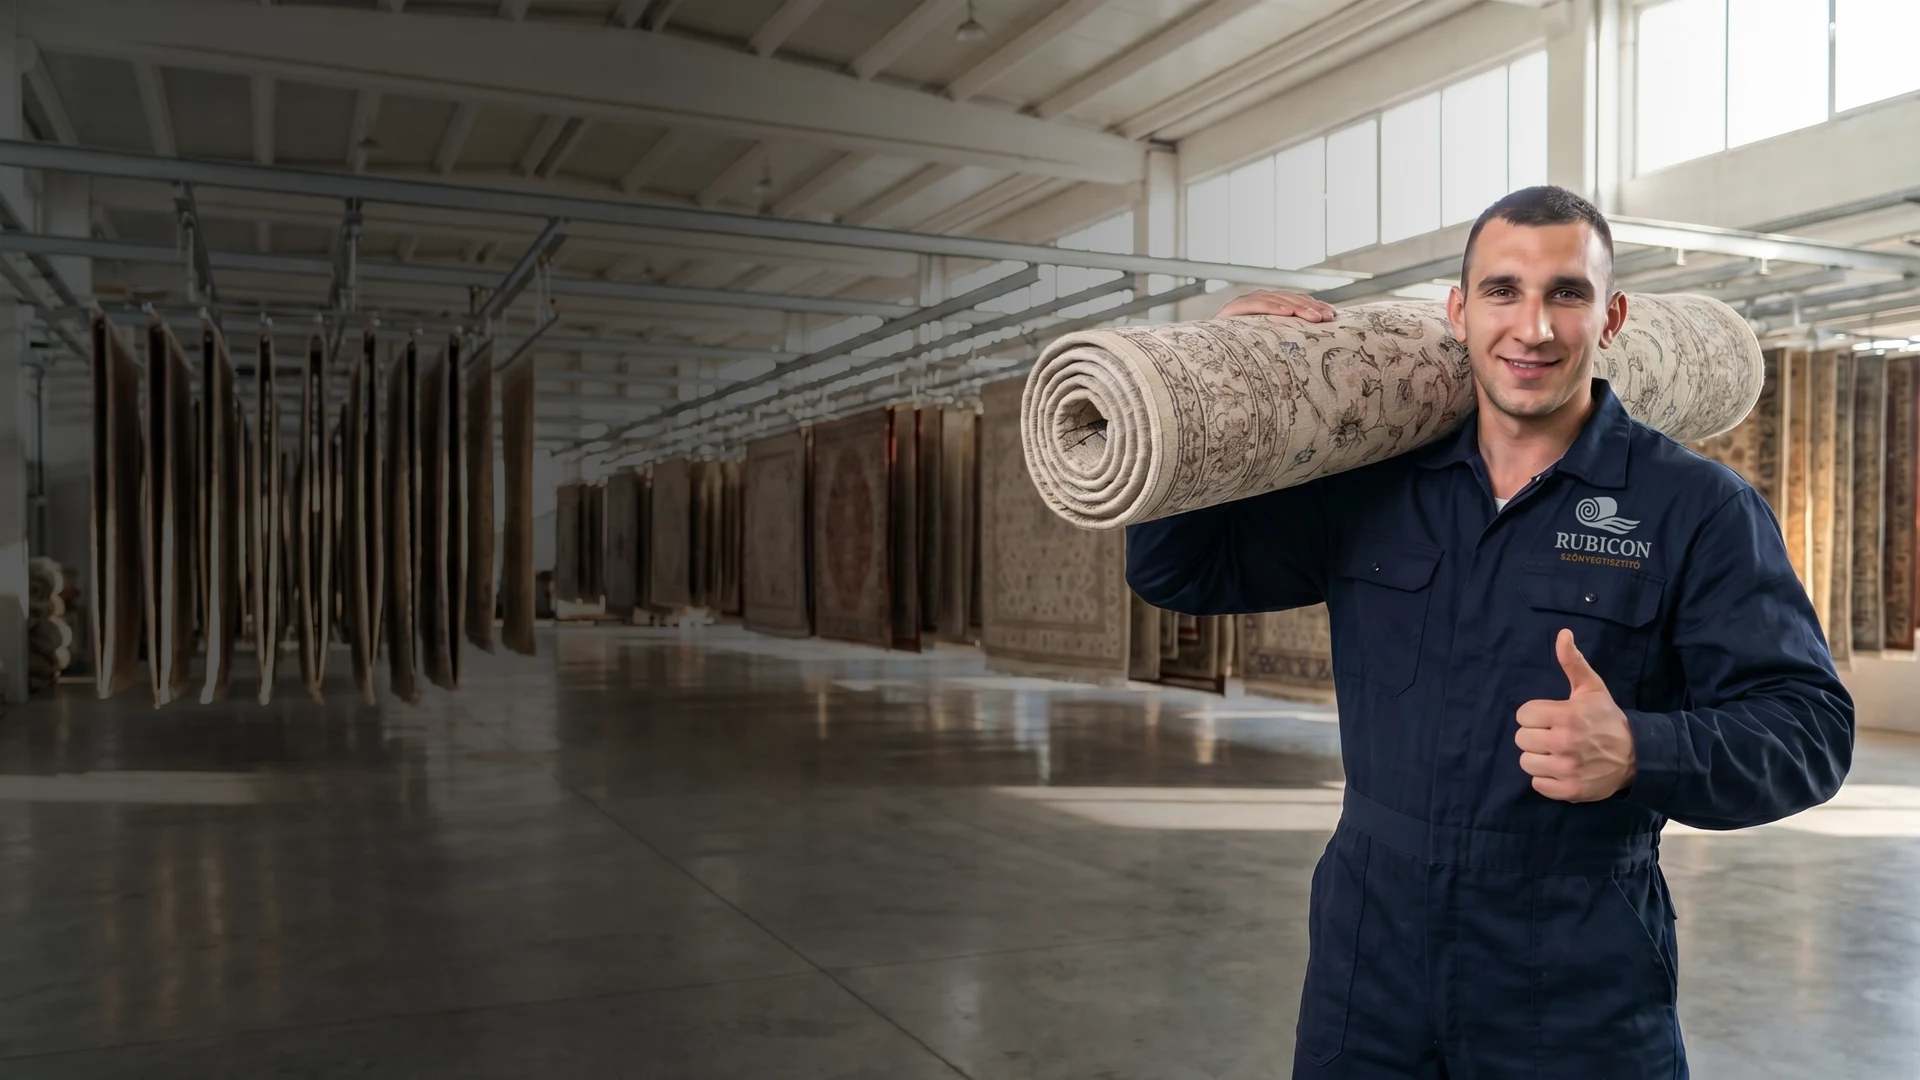
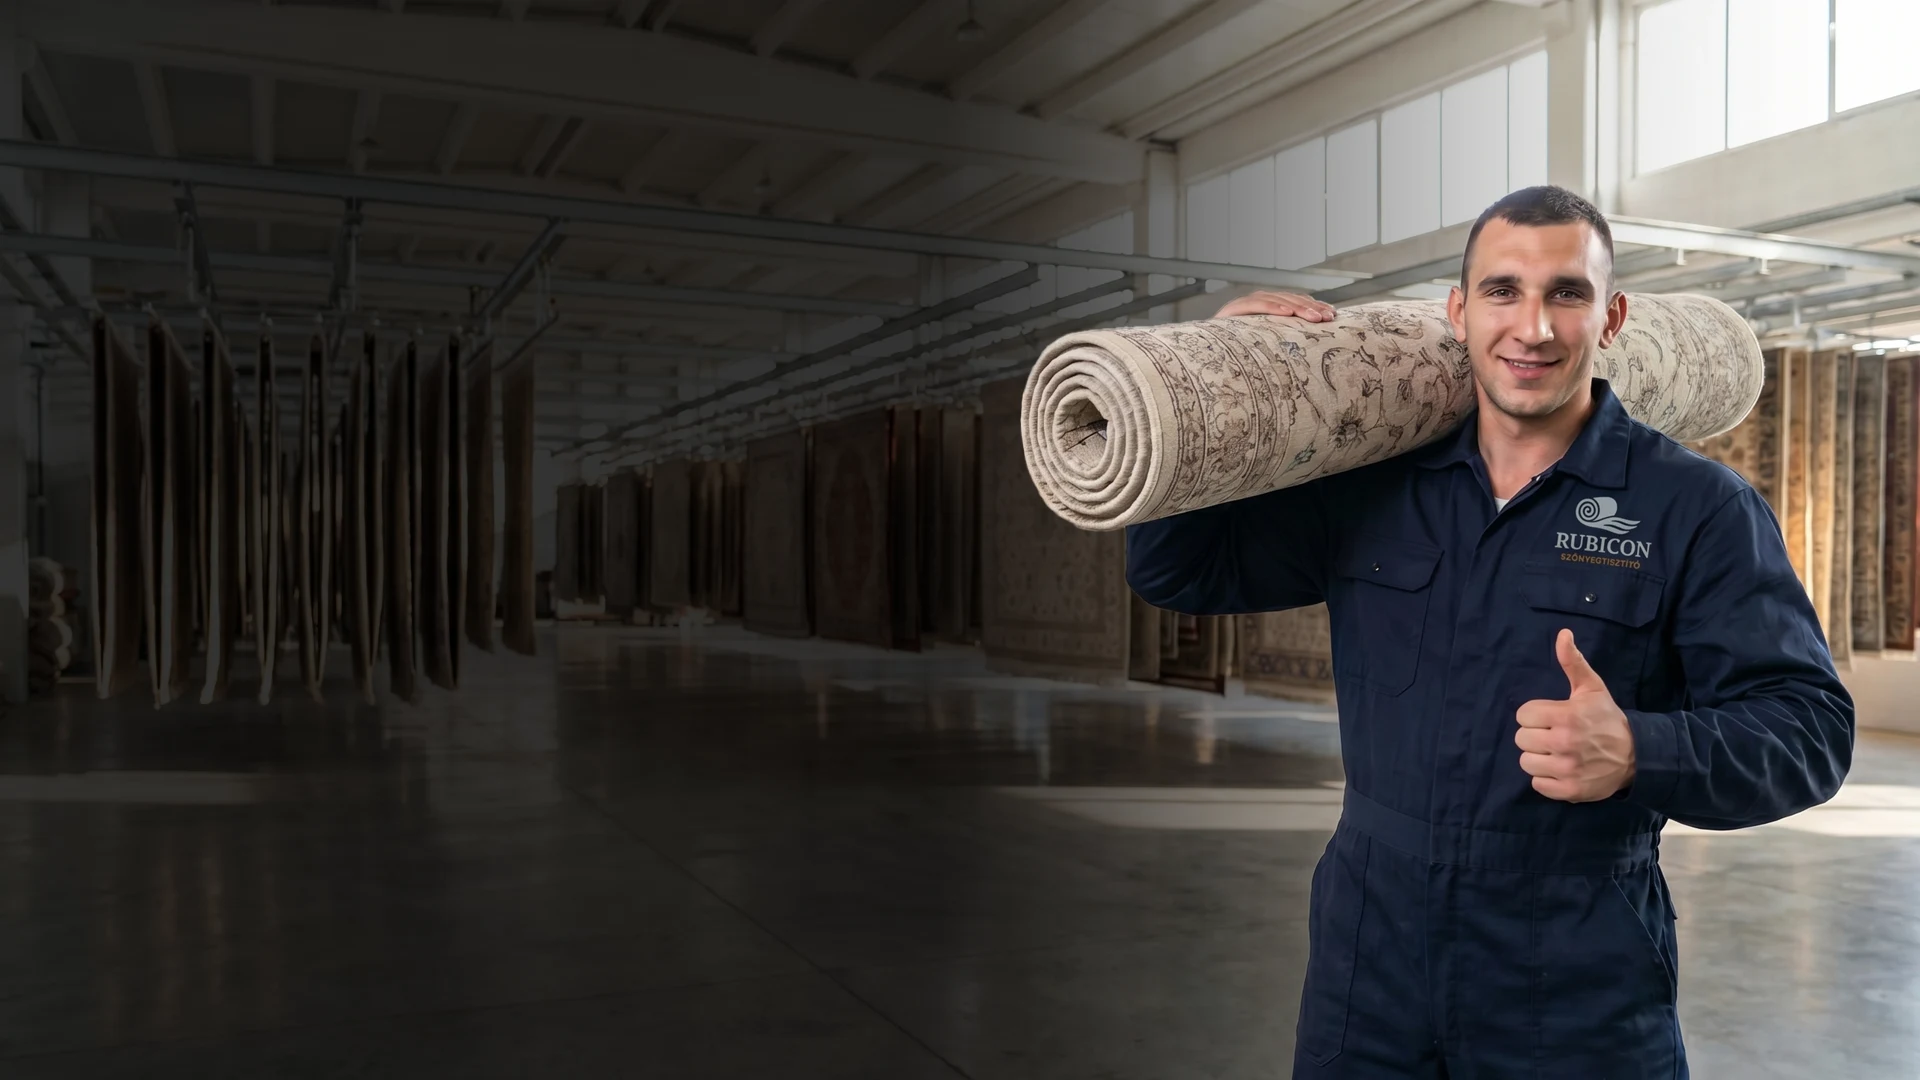
update

diff --git a/src/app/portal/(admin)/page.tsx b/src/app/portal/(admin)/page.tsx
@@ -1,15 +1,8 @@
-import { getJobs, advanceJobStatus } from '@/lib/actions';
-import { MapPin, ChevronRight, CheckCircle2 } from 'lucide-react';
+import { getJobs } from '@/lib/actions';
+import { MapPin } from 'lucide-react';
+import JobStatusEditor from '@/components/admin/JobStatusEditor';
 
 export const dynamic = 'force-dynamic';
-
-const statusColors: Record<string, string> = {
-  'Felvételre vár': 'bg-red-100 text-red-800 border-red-200',
-  'Beérkezett': 'bg-orange-100 text-orange-800 border-orange-200',
-  'Tisztítás alatt': 'bg-blue-100 text-blue-800 border-blue-200',
-  'Elkészült': 'bg-green-100 text-green-800 border-green-200',
-  'Kiszállítva': 'bg-gray-100 text-gray-800 border-gray-200',
-};
 
 export default async function DashboardPage() {
   const jobs = await getJobs();
@@ -31,7 +24,7 @@ export default async function DashboardPage() {
                 <th className="p-4">ID</th>
                 <th className="p-4">Név</th>
                 <th className="p-4">Cím</th>
-                <th className="p-4">Státusz</th>
+                <th className="p-4 w-56">Státusz</th>
                 <th className="p-4 text-right">Végösszeg</th>
                 <th className="p-4 text-center">Műveletek</th>
               </tr>
@@ -43,7 +36,7 @@ export default async function DashboardPage() {
                 </tr>
               )}
               {jobs.map((job: any) => (
-                <tr key={job.id} className="hover:bg-gray-50 transition-colors">
+                <tr key={job.id} className="hover:bg-gray-50 transition-colors relative">
                   <td className="p-4 font-mono text-sm text-gray-500">#{job.id}</td>
                   <td className="p-4 font-medium text-[#181A2C]">{job.name}</td>
                   <td className="p-4">
@@ -54,10 +47,8 @@ export default async function DashboardPage() {
                       </a>
                     )}
                   </td>
-                  <td className="p-4">
-                    <span className={`px-3 py-1 rounded-full text-xs font-medium border ${statusColors[job.status] || 'bg-gray-100 text-gray-800'}`}>
-                      {job.status}
-                    </span>
+                  <td className="p-4 relative">
+                    <JobStatusEditor jobId={job.id} currentStatus={job.status} />
                   </td>
                   <td className="p-4 text-right font-bold text-[#181A2C]">
                     {job.total.toLocaleString('hu-HU')} Ft
@@ -70,28 +61,6 @@ export default async function DashboardPage() {
                     >
                       Szerkesztés
                     </a>
-                    {job.status !== 'Kiszállítva' ? (
-                      <form action={
-                        async () => {
-                          'use server';
-                          await advanceJobStatus(job.id);
-                        }
-                      }>
-                        <button 
-                          type="submit" 
-                          title="Következő lépés"
-                          className="flex items-center gap-1 bg-[#1D63B7] hover:bg-[#3AC2FE] text-white px-3 py-1.5 rounded-lg text-sm font-medium transition-colors shadow-sm"
-                        >
-                          Léptetés
-                          <ChevronRight size={16} />
-                        </button>
-                      </form>
-                    ) : (
-                      <div className="flex items-center gap-1 text-green-600 font-medium text-sm px-2 py-1.5">
-                        <CheckCircle2 size={16} />
-                        Kész
-                      </div>
-                    )}
                   </td>
                 </tr>
               ))}

diff --git a/src/app/page.tsx b/src/app/page.tsx
@@ -98,24 +98,31 @@ export default async function HomePage() {
 
       <main className="bg-[#F8F9FA]">
         {/* 1. HERO Section */}
-        <section className="relative pt-20 pb-32 overflow-hidden flex items-center min-h-[90vh]">
-          <div className="absolute inset-0 z-0">
-            <Image src={heroBgImage} alt="Szőnyegtisztítás" fill className="object-cover" priority />
+        <section className="relative overflow-hidden bg-[#181A2C]">
+          {/* Background Image Container - Half height on mobile, full on desktop */}
+          <div className="absolute top-0 left-0 w-full h-[60vh] md:h-full z-0">
+            <Image src={heroBgImage} alt="Szőnyegtisztítás" fill className="object-cover object-[80%_top] md:object-right" priority quality={100} unoptimized />
+            {/* Desktop Gradient: dark on left, transparent on right so Zoli is visible */}
+            <div className="hidden md:block absolute inset-0 bg-gradient-to-r from-[#181A2C]/90 via-[#181A2C]/50 to-transparent" />
+            {/* Mobile Gradient: left to right for h1/h2 readability */}
+            <div className="block md:hidden absolute inset-0 bg-gradient-to-r from-[#181A2C]/90 via-[#181A2C]/40 to-transparent" />
+            {/* Mobile Gradient: dark at the bottom blending into the solid background below */}
+            <div className="block md:hidden absolute inset-0 bg-gradient-to-t from-[#181A2C] via-transparent to-transparent" />
           </div>
 
-          <div className="max-w-7xl mx-auto px-6 relative z-10 w-full">
+          <div className="max-w-7xl mx-auto px-6 relative z-10 w-full pt-[35vh] pb-24 md:pt-32 md:pb-32 md:min-h-[90vh] flex flex-col justify-center">
             <div className="max-w-3xl">
-              <span className="inline-block py-1 px-3 rounded-full bg-[#3AC2FE]/20 text-[#3AC2FE] font-bold text-sm tracking-widest uppercase mb-6 border border-[#3AC2FE]/30">{heroBadge}</span>
-              <h1 className="text-5xl md:text-6xl font-extrabold text-white leading-tight mb-4">
+              <span className="inline-block py-1 px-3 rounded-full bg-[#3AC2FE]/20 text-[#3AC2FE] font-bold text-sm tracking-widest uppercase mb-4 md:mb-6 border border-[#3AC2FE]/30">{heroBadge}</span>
+              <h1 className="text-4xl sm:text-5xl md:text-6xl font-extrabold text-white leading-tight mb-4">
                 {heroTitle}
               </h1>
-              <h2 className="text-3xl md:text-4xl font-bold text-white mb-6">
+              <h2 className="text-2xl sm:text-3xl md:text-4xl font-bold text-white mb-8 md:mb-6">
                 {heroSubtitle}
               </h2>
-              <p className="text-xl md:text-2xl text-gray-300 font-light mb-10 leading-relaxed">
+              <p className="text-lg sm:text-xl md:text-2xl text-gray-300 font-light mb-10 leading-relaxed">
                 {heroParagraph}
               </p>              
-              <a href="#kapcsolat" className="inline-block bg-[#3AC2FE] hover:bg-white hover:text-[#1D63B7] text-white font-bold text-xl px-10 py-5 rounded-full transition-all shadow-[0_0_40px_rgba(58,194,254,0.4)] hover:shadow-xl mt-8">
+              <a href="#kapcsolat" className="inline-block bg-[#3AC2FE] hover:bg-white hover:text-[#1D63B7] text-white font-bold text-xl px-10 py-5 rounded-full transition-all shadow-[0_0_40px_rgba(58,194,254,0.4)] hover:shadow-xl md:mt-8">
                 {heroCta}
               </a>
             </div>

diff --git a/src/components/admin/JobStatusEditor.tsx b/src/components/admin/JobStatusEditor.tsx
@@ -1,0 +1,86 @@
+'use client';
+
+import { useState } from 'react';
+import { Pencil, Check, X } from 'lucide-react';
+import { updateJobStatus } from '@/lib/actions';
+
+const statuses = [
+  'Felvételre vár',
+  'Beérkezett',
+  'Tisztítás alatt',
+  'Elkészült',
+  'Kiszállítva'
+];
+
+const statusColors: Record<string, string> = {
+  'Felvételre vár': 'bg-red-100 text-red-800 border-red-200',
+  'Beérkezett': 'bg-orange-100 text-orange-800 border-orange-200',
+  'Tisztítás alatt': 'bg-blue-100 text-blue-800 border-blue-200',
+  'Elkészült': 'bg-green-100 text-green-800 border-green-200',
+  'Kiszállítva': 'bg-gray-100 text-gray-800 border-gray-200',
+};
+
+export default function JobStatusEditor({ jobId, currentStatus }: { jobId: number, currentStatus: string }) {
+  const [isEditing, setIsEditing] = useState(false);
+  const [selectedStatus, setSelectedStatus] = useState(currentStatus);
+  const [isLoading, setIsLoading] = useState(false);
+
+  const handleSave = async () => {
+    setIsLoading(true);
+    await updateJobStatus(jobId, selectedStatus);
+    setIsEditing(false);
+    setIsLoading(false);
+  };
+
+  const handleCancel = () => {
+    setSelectedStatus(currentStatus);
+    setIsEditing(false);
+  };
+
+  if (isEditing) {
+    return (
+      <div className="flex items-center gap-2 bg-white border border-gray-200 p-1.5 rounded-xl shadow-lg absolute z-10 -ml-2 -mt-1.5">
+        <select 
+          value={selectedStatus} 
+          onChange={(e) => setSelectedStatus(e.target.value)}
+          className="bg-gray-50 border border-gray-200 rounded-lg text-sm px-2 py-1 outline-none focus:ring-1 focus:ring-[#3AC2FE]"
+          disabled={isLoading}
+        >
+          {statuses.map(s => <option key={s} value={s}>{s}</option>)}
+        </select>
+        
+        <button 
+          onClick={handleSave} 
+          disabled={isLoading}
+          className="p-1.5 bg-green-100 text-green-700 hover:bg-green-200 rounded-lg transition-colors"
+          title="Mentés"
+        >
+          <Check size={16} />
+        </button>
+        <button 
+          onClick={handleCancel} 
+          disabled={isLoading}
+          className="p-1.5 bg-red-100 text-red-700 hover:bg-red-200 rounded-lg transition-colors"
+          title="Mégse"
+        >
+          <X size={16} />
+        </button>
+      </div>
+    );
+  }
+
+  return (
+    <div className="flex items-center gap-2 group">
+      <span className={`px-3 py-1 rounded-full text-xs font-medium border ${statusColors[currentStatus] || 'bg-gray-100 text-gray-800'}`}>
+        {currentStatus}
+      </span>
+      <button 
+        onClick={() => setIsEditing(true)}
+        className="p-1.5 text-gray-400 hover:text-[#1D63B7] hover:bg-blue-50 rounded-lg transition-all focus:opacity-100"
+        title="Státusz módosítása"
+      >
+        <Pencil size={14} />
+      </button>
+    </div>
+  );
+}

diff --git a/src/lib/actions.ts b/src/lib/actions.ts
@@ -73,6 +73,13 @@ export async function advanceJobStatus(id: number) {
   }
 }
 
+export async function updateJobStatus(id: number, newStatus: string) {
+  if (statusOrder.includes(newStatus)) {
+    db.prepare('UPDATE jobs SET status = ? WHERE id = ?').run(newStatus, id);
+    revalidatePath('/portal');
+  }
+}
+
 export async function createJob(data: any) {
   const stmt = db.prepare(`
     INSERT INTO jobs (name, address, map_link, status, total, notes, data_json)
